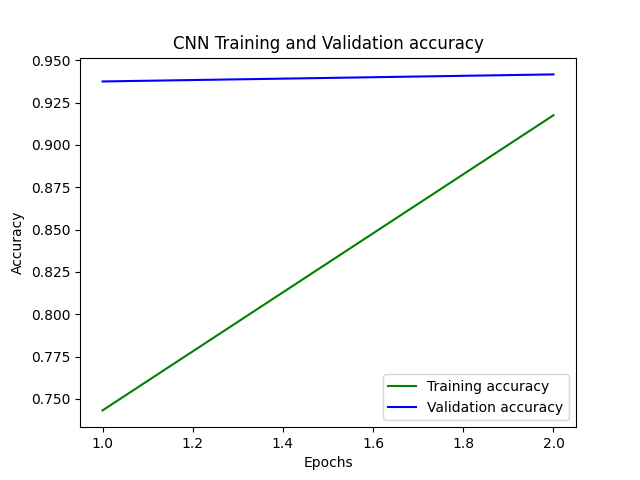
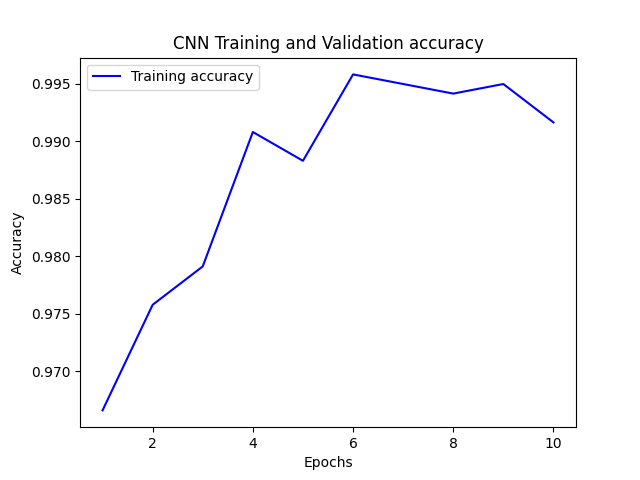
2.1 changes

diff --git a/utils/utils.py b/utils/utils.py
@@ -20,35 +20,38 @@ def read_books(names):
         for book_name in os.listdir(f"./{BOOKS_DIR}/{name}"):
             with open(f"./{BOOKS_DIR}/{name}/{book_name}", "r", encoding='utf8', errors='ignore') as book:
                 book = book.read()
-                books[name].append({book_name: book})  # [:int(len(book) / 100)])
+                books[name].append({book_name: book})
     return books
 
 
 def plot_eval(history, n_epochs, title):
-    fig_1 = plt.figure()
-    cmap = (color for color in ['g', 'b'])
+    cmap = circular(['g', 'b'])
     epochs = range(1, n_epochs + 1)
 
-    loss_train = history['loss']
-    loss_val = history['val_loss']
-    plt.plot(epochs, loss_train, 'g', label='Training loss')
-    plt.plot(epochs, loss_val, 'b', label='Validation loss')
+    fig_1 = plt.figure()
+    labels = (label for label in ['Training loss', 'Validation loss'])
     plt.title(f'{title} Training and Validation loss')
+    for k in {'loss', 'val_loss'}.intersection(history.keys()):
+        v = history[k]
+        plt.plot(epochs, v, next(cmap), label=next(labels))
+        plt.xlabel(k)
     plt.xlabel('Epochs')
     plt.ylabel('Loss')
     plt.legend()
     plt.savefig(f'./plots/{title}_train_vs_val_loss.png')
 
     fig_2 = plt.figure()
-    loss_train = history['accuracy']
-    loss_val = history['val_accuracy']
-    plt.plot(epochs, loss_train, 'g', label='Training accuracy')
-    plt.plot(epochs, loss_val, 'b', label='Validation accuracy')
+    labels = (label for label in ['Training accuracy', 'Validation accuracy'])
     plt.title(f'{title} Training and Validation accuracy')
+    for k in {'accuracy', 'val_accuracy'}.intersection(history.keys()):
+        v = history[k]
+        plt.plot(epochs, v, next(cmap), label=next(labels))
+        plt.xlabel(k)
     plt.xlabel('Epochs')
     plt.ylabel('Accuracy')
     plt.legend()
     plt.savefig(f'./plots/{title}_train_vs_val_acc.png')
+
     return fig_1, fig_2
 
 
@@ -188,3 +191,9 @@ def lemmatize(text):
 
 def embedding(text, elmo):
     return elmo().get_elmo_vectors(text)
+
+
+def circular(array):
+    while True:
+        for connection in array:
+            yield connection

diff --git a/app.py b/app.py
@@ -7,7 +7,7 @@ from data.Dataset import Dataset
 from data.TestSet import TestSet
 from data.TrainSet import TrainSet
 from models.merge import ELMo, CNN, BiLSTM, Ensemble
-from utils.utils import plot_compare_bars, plot_prediction, convert_embeddings_to_tensor
+from utils.utils import plot_compare_bars, plot_prediction, convert_embeddings_to_tensor, circular
 from utils.experiment_params import ExperimentsParams
 
 
@@ -19,6 +19,7 @@ def preprocess(dataset):
     dataset.chunking()
     with st.spinner(text="Embedding in progress..."):
         dataset.create_embedding(ELMo)
+
 
 # Set streamlit configuration
 st.set_page_config(page_title="Plagiarism detection", initial_sidebar_state="expanded", layout="wide")
@@ -59,7 +60,7 @@ if base_dir:
             st.markdown(f"### Impostor 1: {impostor1}, Impostor 2: {impostor2}, Test author: {author_under_test}")
             authors_pair = [impostor1, impostor2]
             cols = st.columns([1, 1, 1, 1])
-            col = (cols[i] for i in range(len(cols)))
+            col = circular(cols)
             params = ExperimentsParams(author_under_test, creation_under_test, impostor1, impostor2)
             raw_train_set = Dataset(authors_pair)
             preprocess(raw_train_set)
@@ -96,15 +97,19 @@ if base_dir:
             cnn_bilstm = Ensemble(train_set)
 
             with st.spinner(text="CNN Training in progress..."):
-                cnn_bilstm.add(cnn)
-              #  loss_fig, acc_fig = cnn_bilstm.add(cnn)
+                loss_fig, acc_fig = cnn_bilstm.add(cnn)
             with next(col):
                 st.pyplot(loss_fig)
             with next(col):
                 st.pyplot(acc_fig)
 
             with st.spinner(text="BiLSTM Training in progress..."):
-                cnn_bilstm.add(bilstm)
+                loss_fig, acc_fig = cnn_bilstm.add(bilstm)
+                with next(col):
+                    st.pyplot(loss_fig)
+                with next(col):
+                    st.pyplot(acc_fig)
+
             with st.spinner(text="Ensemble Training in progress..."):
                 cnn_bilstm.build()
                 cnn_bilstm.fit()

diff --git a/models/ensemble.py b/models/ensemble.py
@@ -20,15 +20,15 @@ class Ensemble:
         clf._estimator_type = "classifier"
         history = clf.fit(self.X, self.train_set.Y_train)
         self.clfs.append(clf)
-        # TODO Return loss/acc plots
-        # return plot_eval(history.history, len(history.epoch), model.name)
+        return plot_eval(history.history, len(history.epoch), model.name)
 
     def build(self):
-        self.model = EnsembleVoteClassifier(clfs=self.clfs, voting='soft')  # ,fit_base_estimators=False)
+        self.model = EnsembleVoteClassifier(clfs=self.clfs, voting='soft', fit_base_estimators=False)
 
     def fit(self):
-        history = self.model.fit(self.X, self.Y)
-        return history
+        self.model.fit(self.X, self.Y)
+        # history = self.model.fit(self.X, self.Y)
+        # return history
 
     def predict_proba(self, X=None):
         if X is None:
